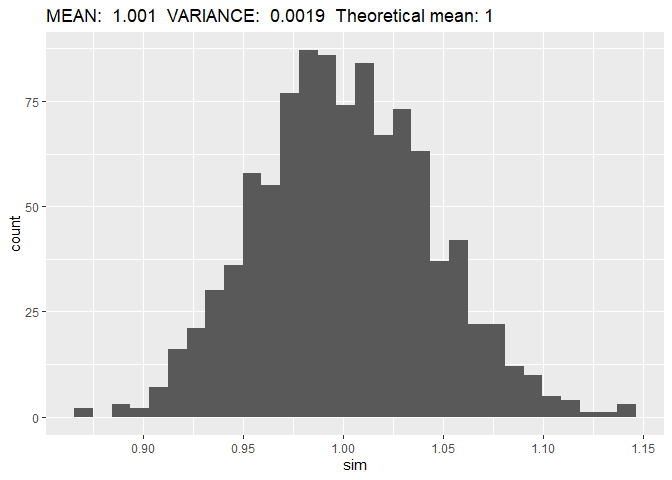
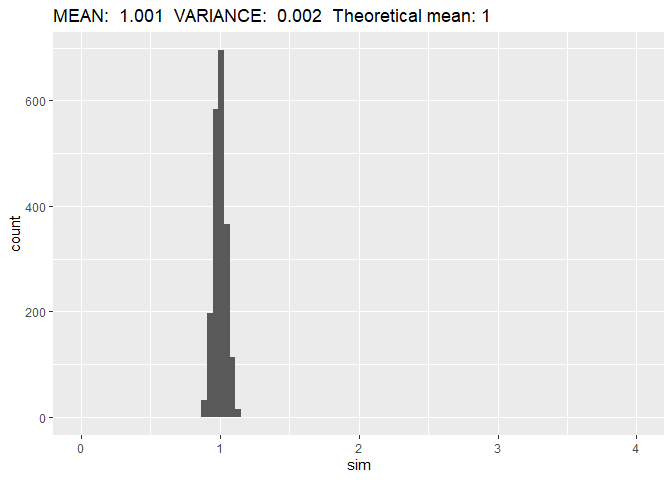
Fixed x-axes and set seed

diff --git a/README.md b/README.md
@@ -45,16 +45,18 @@ normmean_simulation <- function(r, n, mean, sd){
 ## a) Mean=1, sd=2, n=100
 
 ``` r
-## Generate 1000 normal variable means
-sim <- normmean_simulation(r = 1000,
+## Generate 2000 normal variable means
+sim <- normmean_simulation(r = 2000,
                            n = 100, mean = 1, sd = 2 )
 
 ## Histogram
 ggplot(mapping = aes(x = sim)) +
-  geom_histogram(bins = 30) +
+  geom_histogram(bins = 100) +
+  xlim(-2, 4)+
   labs(title = paste("MEAN: ", round(mean(sim),digits = 3),
                      " VARIANCE: ", round(var(sim),digits = 4),
                      " Theoretical variance:", 4/100))
+#> Warning: Removed 2 rows containing missing values (geom_bar).
 ```
 
 ![](README_files/figure-gfm/unnamed-chunk-3-1.png)<!-- -->
@@ -62,16 +64,19 @@ ggplot(mapping = aes(x = sim)) +
 ## c) I Mean=1, sd=2, n=5
 
 ``` r
-## Generate 1000 normal variable means
-sim <- normmean_simulation(r = 1000,
+## Generate 2000 normal variable means
+sim <- normmean_simulation(r = 2000,
                            n = 5, mean = 1, sd = 2 )
 
 ## Histogram
 ggplot(mapping = aes(x = sim)) +
-  geom_histogram(bins = 30) +
+  geom_histogram(bins = 100) +
+  xlim(-2, 4)+
   labs(title = paste("MEAN: ", round(mean(sim),digits = 3),
                      " VARIANCE: ", round(var(sim),digits = 4),
                      " Theoretical variance:", 4/5))
+#> Warning: Removed 1 rows containing non-finite values (stat_bin).
+#> Warning: Removed 2 rows containing missing values (geom_bar).
 ```
 
 ![](README_files/figure-gfm/unnamed-chunk-4-1.png)<!-- -->
@@ -79,16 +84,18 @@ ggplot(mapping = aes(x = sim)) +
 ## c) II Mean=1, sd=2, n=1000
 
 ``` r
-## Generate 1000 normal variable means
-sim <- normmean_simulation(r = 1000,
+## Generate 2000 normal variable means
+sim <- normmean_simulation(r = 2000,
                            n = 1000, mean = 1, sd = 2 )
 
 ## Histogram
 ggplot(mapping = aes(x = sim)) +
-  geom_histogram(bins = 30) +
+  geom_histogram(bins = 100) +
+  xlim(-2, 4)+
   labs(title = paste("MEAN: ", round(mean(sim),digits = 3),
                      " VARIANCE: ", round(var(sim),digits = 4),
                      " Theoretical variance:", 4/1000))
+#> Warning: Removed 2 rows containing missing values (geom_bar).
 ```
 
 ![](README_files/figure-gfm/unnamed-chunk-5-1.png)<!-- -->
@@ -152,17 +159,20 @@ chi_simulation <- function(r, df, n, mean, sd){
 ## e) I Mean=0, sd=1, n=5
 
 ``` r
-## Generate 1000 chi^2 variable means
-sim <- chi_simulation(r = 1000,
+## Generate 2000 chi^2 variable means
+sim <- chi_simulation(r = 2000,
                       n = 5,
                       df = 1, mean = 0, sd = 1 )
 
 ## Histogram
 ggplot(mapping = aes(x = sim)) +
-  geom_histogram(bins = 30) +
+  geom_histogram(bins = 100) +
+  xlim(0, 4)+
   labs(title = paste("MEAN: ", round(mean(sim),digits = 3),
                      " VARIANCE: ", round(var(sim),digits = 4),
                      " Theoretical mean:", 1))
+#> Warning: Removed 5 rows containing non-finite values (stat_bin).
+#> Warning: Removed 2 rows containing missing values (geom_bar).
 ```
 
 ![](README_files/figure-gfm/unnamed-chunk-7-1.png)<!-- -->
@@ -170,17 +180,19 @@ ggplot(mapping = aes(x = sim)) +
 ## e) II Mean=0, sd=1, n=100
 
 ``` r
-## Generate 1000 chi^2 variable means
-sim <- chi_simulation(r = 1000,
+## Generate 2000 chi^2 variable means
+sim <- chi_simulation(r = 2000,
                       n = 100,
                       df = 1, mean = 0, sd = 1 )
 
 ## Histogram
 ggplot(mapping = aes(x = sim)) +
-  geom_histogram(bins = 30) +
+  geom_histogram(bins = 100) +
+  xlim(0, 4)+
   labs(title = paste("MEAN: ", round(mean(sim),digits = 3),
                      " VARIANCE: ", round(var(sim),digits = 4),
                      " Theoretical mean:", 1))
+#> Warning: Removed 2 rows containing missing values (geom_bar).
 ```
 
 ![](README_files/figure-gfm/unnamed-chunk-8-1.png)<!-- -->
@@ -188,17 +200,19 @@ ggplot(mapping = aes(x = sim)) +
 ## e) III Mean=0, sd=1, n=1000
 
 ``` r
-## Generate 1000 chi^2 variable means
-sim <- chi_simulation(r = 1000,
+## Generate 2000 chi^2 variable means
+sim <- chi_simulation(r = 2000,
                       n = 1000,
                       df = 1, mean = 0, sd = 1 )
 
 ## Histogram
 ggplot(mapping = aes(x = sim)) +
-  geom_histogram(bins = 30) +
+  geom_histogram(bins = 100) +
+  xlim(0, 4)+
   labs(title = paste("MEAN: ", round(mean(sim),digits = 3),
                      " VARIANCE: ", round(var(sim),digits = 4),
                      " Theoretical mean:", 1))
+#> Warning: Removed 2 rows containing missing values (geom_bar).
 ```
 
 ![](README_files/figure-gfm/unnamed-chunk-9-1.png)<!-- -->
@@ -236,7 +250,7 @@ result_5 <- map_dbl(1:1000,
 
 ## Fraction of significant tests
 mean(result_5 < 0.05)
-#> [1] 0.162
+#> [1] 0.161
 ```
 
 ## f) II Hypothesis test with n=100
@@ -249,7 +263,7 @@ result_100 <- map_dbl(1:100,
 
 ## Fraction of significant tests
 mean(result_100 < 0.05)
-#> [1] 0.05
+#> [1] 0.1
 ```
 
 ## f) III Hypothesis test with n=1000
@@ -262,5 +276,5 @@ result_1000 <- map_dbl(1:100,
 
 ## Fraction of significant tests
 mean(result_1000 < 0.05)
-#> [1] 0.06
+#> [1] 0.03
 ```
